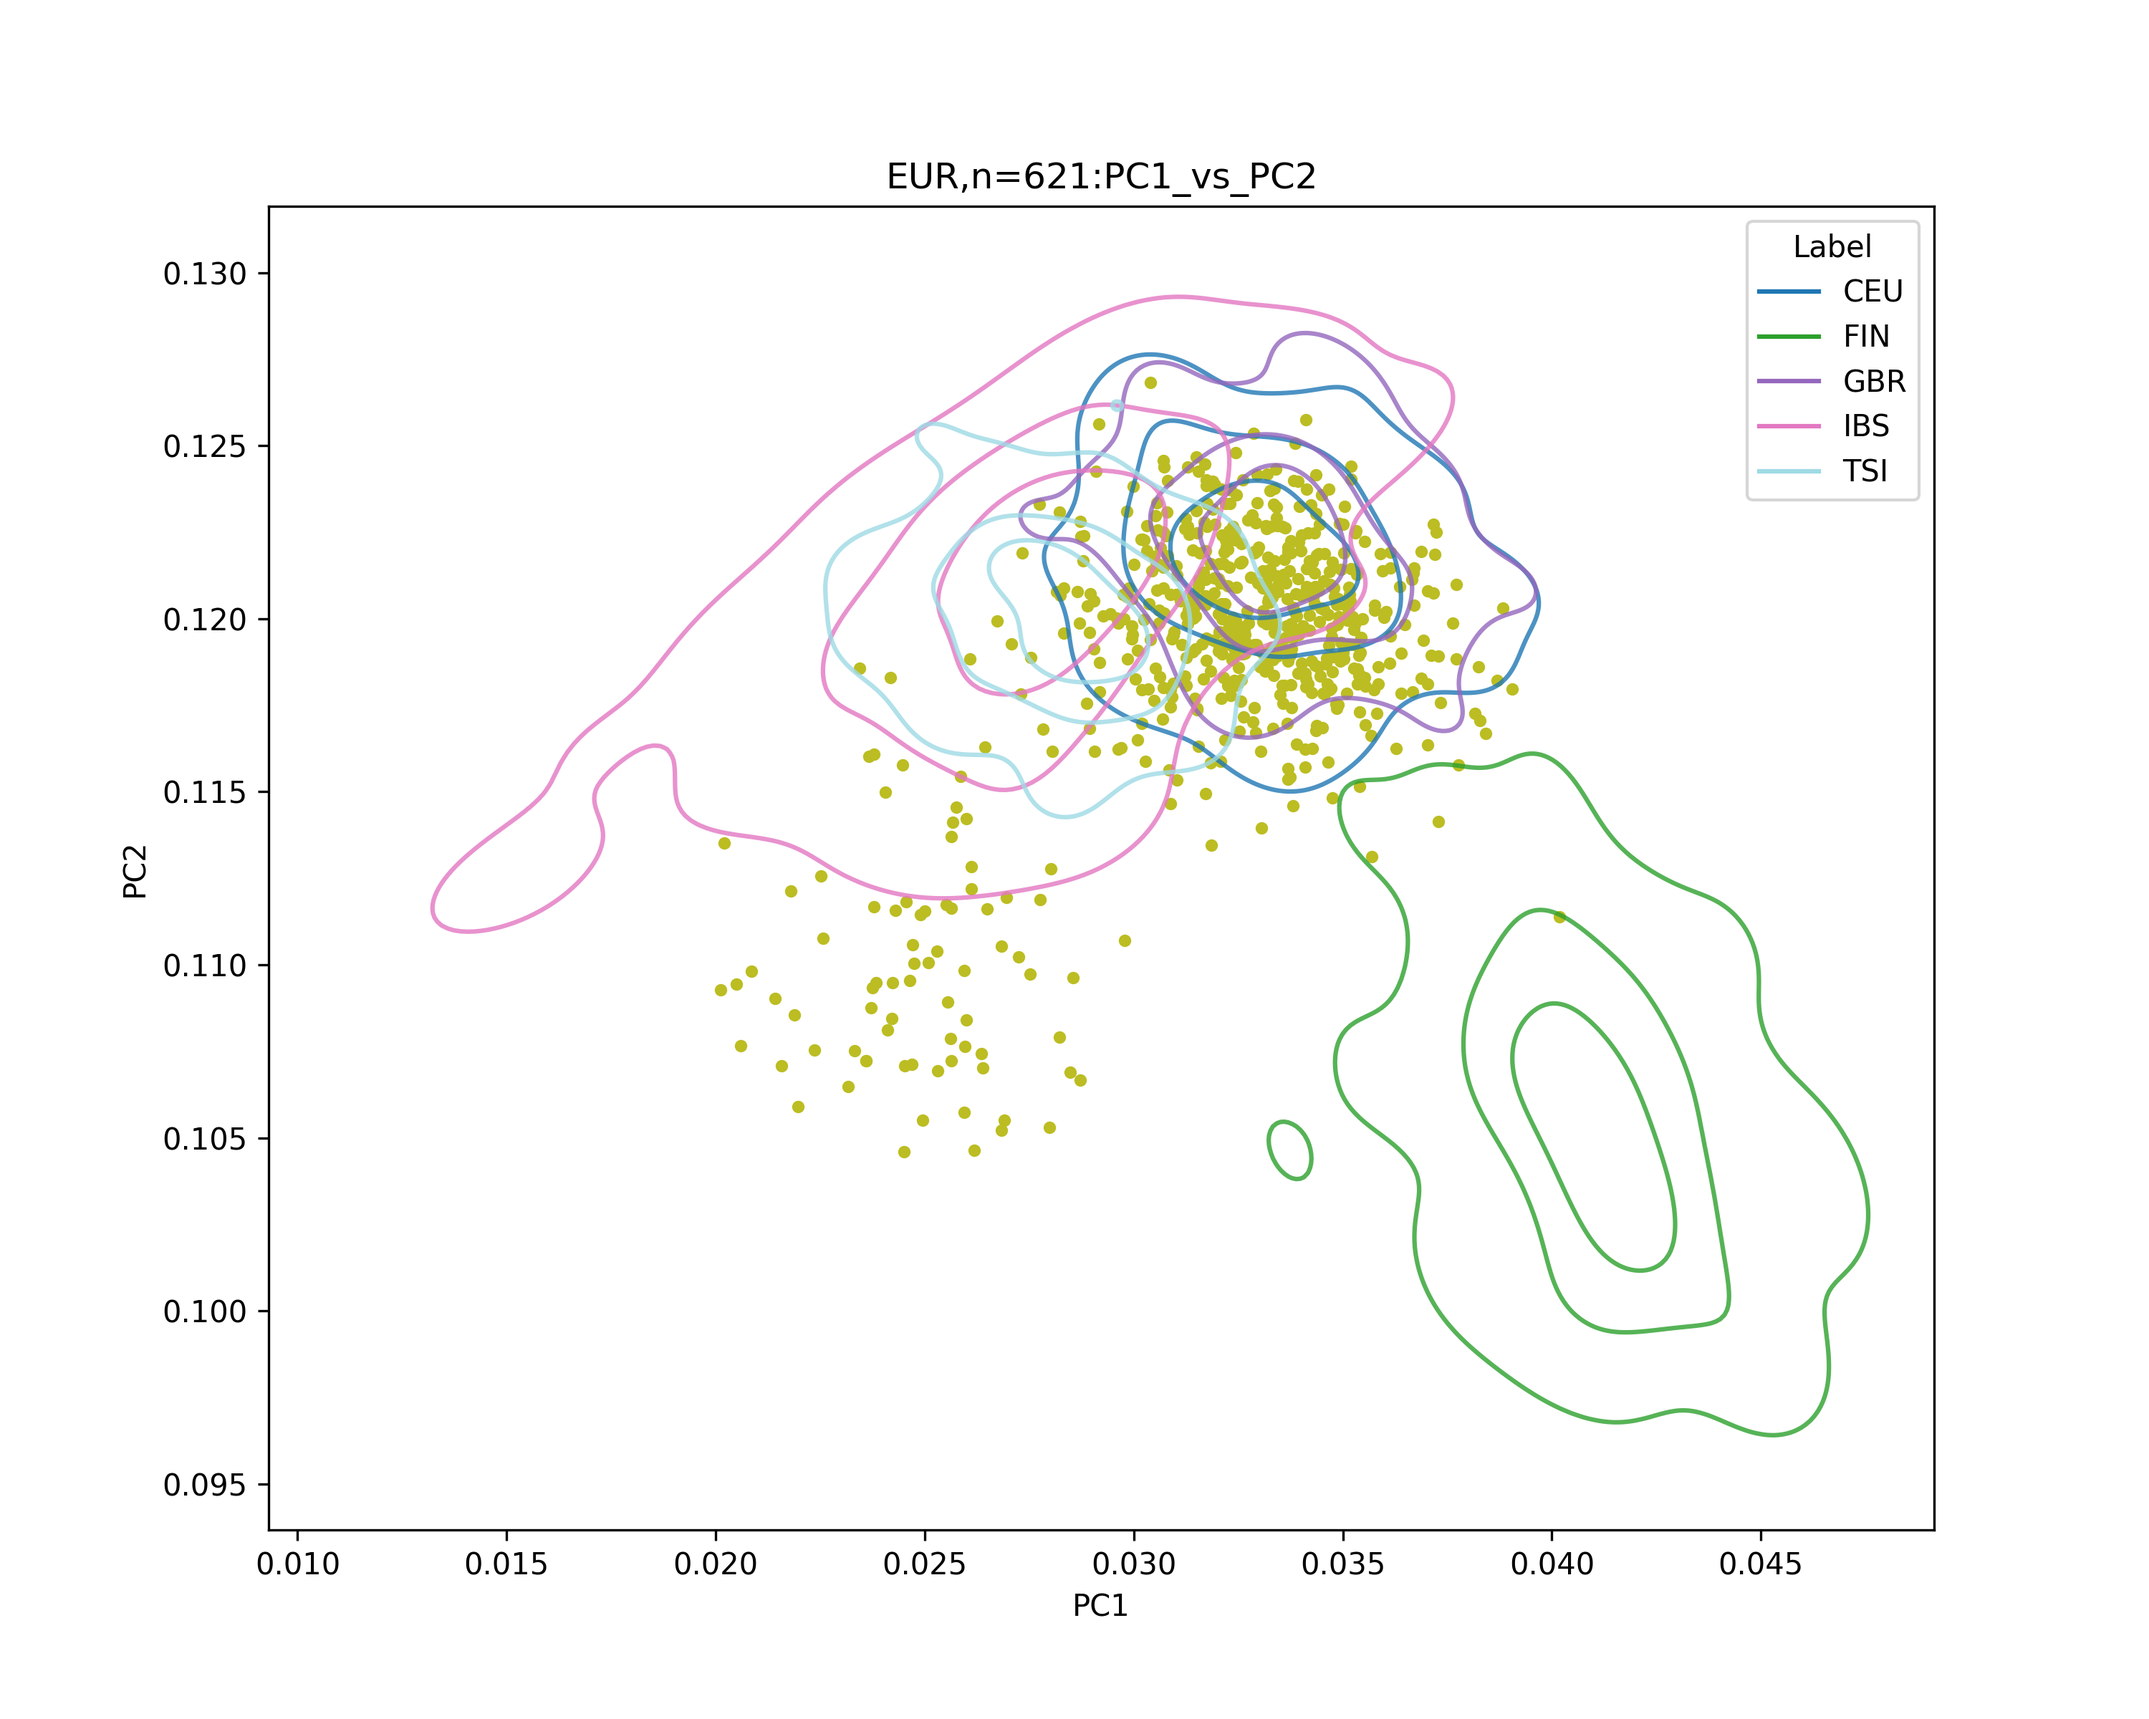
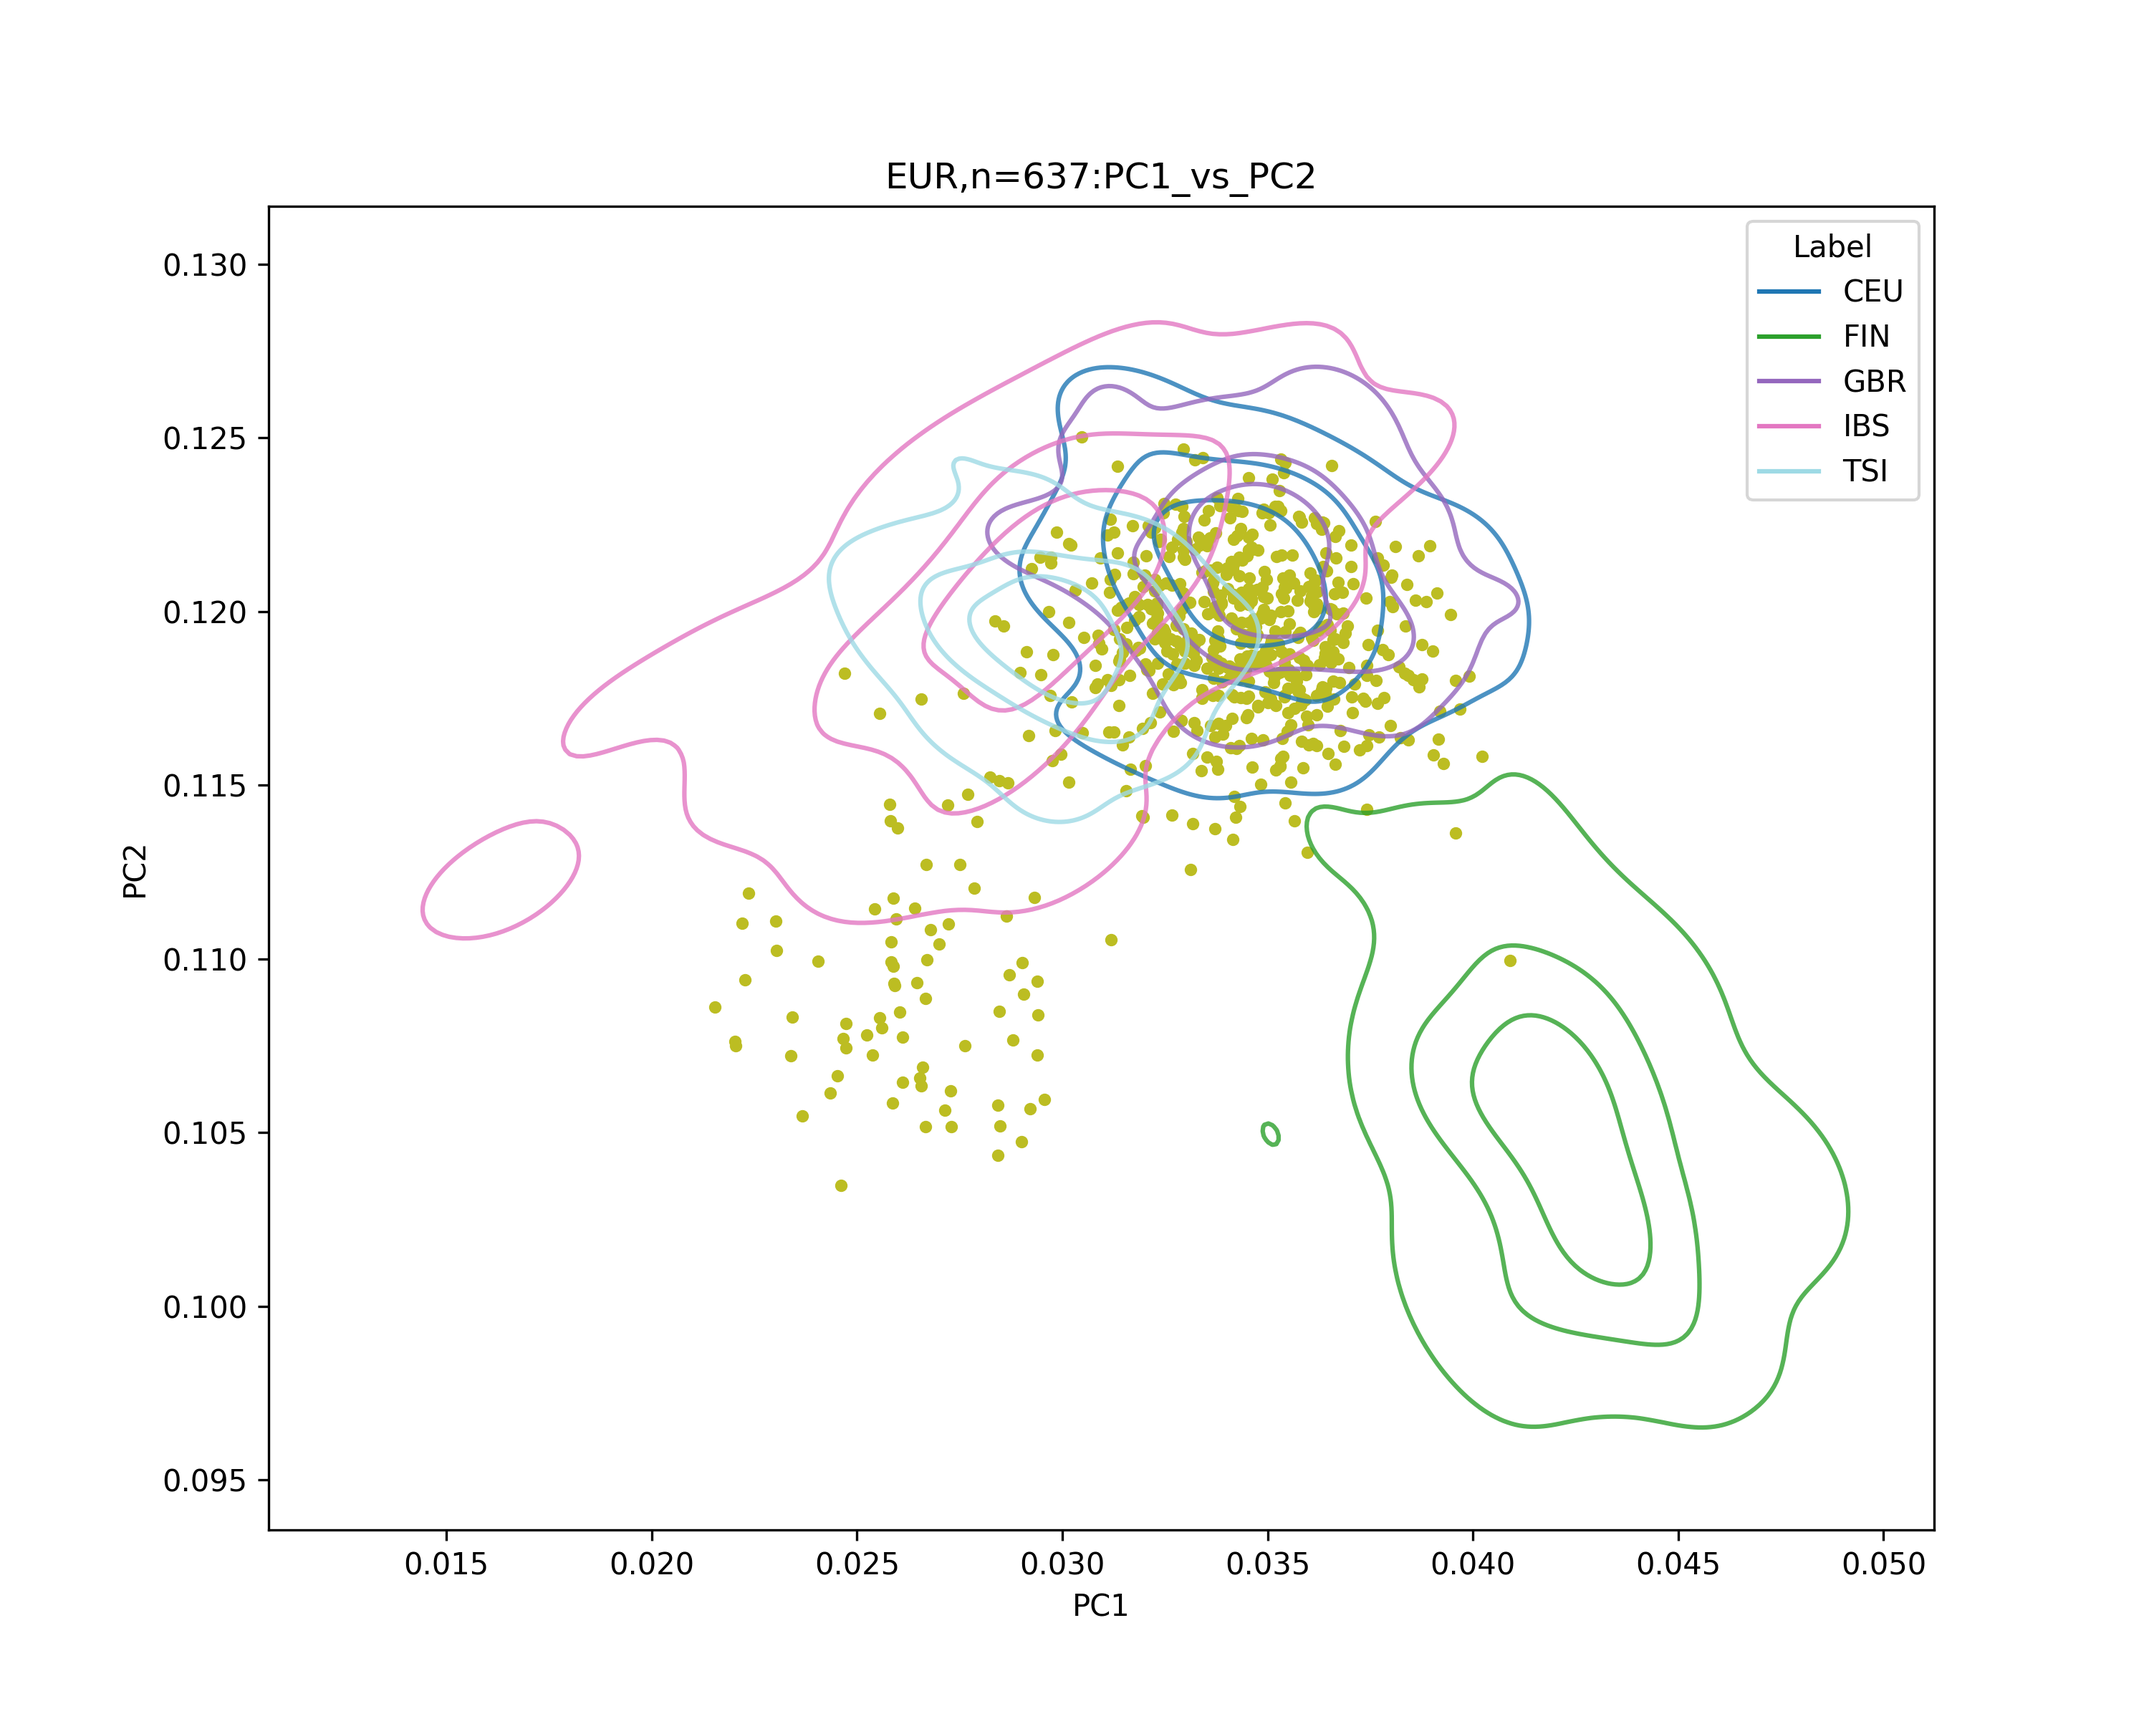
pre-impute

diff --git a/README.md b/README.md
@@ -1,5 +1,19 @@
 # ADNI1 genetic QC and population splitting
 
+ADNI1 genotying data is using the Illumina Human610-Quad BeadChip and intensity data processed with GenomeStudio v2009.1
+
+It is aligned to hg18, but the position is a bit different from hg18 FASTA file. Also it is not standardized to the forward strand. For example, this variant's Reference allele is A. Also the position is diffrent from any of the hg18/19/38 standard coordinates.
+```
+1       rs3737728       0       1011278 T       C
+```
+When aligned to rsID (not on chr:pos), still the imputation server reports around 10% strand flip and 5% strand flip & allele swap. 85% are almost 100% matched so we see this as stranad / allele mis-alignment issue on rsID.
+
+In summarize, our approach is to:
+* use rsID to retrive the standardized coordinates
+* do ordinary QCs
+* use HRC-1000 to standardize to forward strand
+
+## Preparation
 Install plink2 to ./bin folder `
 ```
 mkdir -p ./bin
@@ -19,9 +33,8 @@ module load plink/1.9
 * AJ reference plink binary from [GSE23636](https://www.ncbi.nlm.nih.gov/geo/query/acc.cgi?acc=GSE23636)
 * 1000 genome phase 3 plink binary + population labels filtered to biallelic snps on autosomes with a MAF > 0.01, geno > 0.95 and hwe > 1e-6. Also, pallindromes and long LD regions were excluded. ([Processing steps](https://github.com/hirotaka-i/1kg_ref/blob/main/main.ipynb))
 
-## EUR
-Start with removing the noisy variants from the original ADNI1 hg18 data. 
-Then, align to hg38, standardize the variants IDs to chr:pos:ref:alt
+## Retrieve standardized positions on hg19 from rsID
+Start with removing the noisy variants from the original ADNI1 hg18 data. Then, align to hg19 positions using rsID and HapMap map file.
 ```
 awk '$5 == "0" || $6 == "0" || $5 == $6 {print $2}' \
   ../resources/ADNI/ADNI1_hg19/ADNI_cluster_01_forward_757LONI.bim \
@@ -32,11 +45,46 @@ awk '$5 == "0" || $6 == "0" || $5 == $6 {print $2}' \
   --exclude temp/bad_snps.txt \
   --make-bed \
   --out temp/ADNI_start
+```
+Retrieve hg19 positions from rsID using HapMap map file
+```
+awk '$2 ~ /^rs[0-9]+$/ {print $2}' temp/ADNI_start.bim \
+  | sort -u > temp/adni_rsid.sorted
+join -t $'\t' -1 1 -2 1 \
+  temp/adni_rsid.sorted \
+  ../resources/HAPMAP_hg19_new.map.sorted.pref_exact \
+  > temp/adni_rsid_to_hg19.map
 
+awk '{print $1, $2}' temp/adni_rsid_to_hg19.map > temp/update_chr_hg19.txt
+awk '{print $1, $3}' temp/adni_rsid_to_hg19.map > temp/update_pos_hg19.txt
+cut -f1 temp/adni_rsid_to_hg19.map > temp/rsids_with_hg19pos.txt
+```
+* 587337 temp/adni_rsid.sorted 
+* 417147 temp/adni_rsid_to_hg19.map
+```
+awk '{print $1, $2}' temp/adni_rsid_to_hg19.map > temp/update_chr_hg19.txt
+awk '{print $1, $3}' temp/adni_rsid_to_hg19.map > temp/update_pos_hg19.txt
+cut -f1 temp/adni_rsid_to_hg19.map > temp/rsids_with_hg19pos.txt
+```
+
+```
+./bin/plink2 \
+  --bfile temp/ADNI_start \
+  --extract temp/rsids_with_hg19pos.txt \
+  --update-chr temp/adni_rsid_to_hg19.map \
+  --update-map temp/adni_rsid_to_hg19.map 3 1 \
+  --sort-vars \
+  --make-pgen \
+  --out temp/ADNI_hg19_rsidpos
+```
+
+# QC and population splitting pipeline
+```
 bash code/01_prepare_variants.sh \
-        --bfile temp/ADNI_start \
+        --pfile temp/ADNI_hg19_rsidpos \
         --fa ../resources/liftover_ref/hg38.fa.gz \
-        --chain data/hg18ToHg38.over.chain.gz \
+        --chain data/hg19ToHg38.over.chain.gz \
+        --chain-back data/hg38ToHg19.over.chain.gz \
         --outdir temp/prep_vars_out \
         --threads 2
 ```
@@ -65,11 +113,10 @@ python code/03b_plot_pop_and_split.py \
 ```
 ```
 InfPop
-REF      2573
-EUR       621
-AAC        30
-AMR        21
-OTHER       9
+EUR       637
+AAC        32
+AMR        25
+OTHER      11
 SAS         1
 ```
 
@@ -84,17 +131,42 @@ bash code/04_qc_split.sh \
   --keep-samples temp/pop_split_out/with_1kg_mah_EUR.list \
   --fa ../resources/liftover_ref/hg38.fa.gz \
   --snps-only yes \
-  --vcf-out yes \
+  --vcf-out no \
   --outdir temp/qc_EUR_splitted \
   --geno-thres 0.1 \
   --maf-thres 0.005 \
-  --vcf-out yes \
   --threads 2
 ```
 
-Archive the temp/qc_EUR_splitted/vcf/chr*.vcf.gz output files for download
+
+
+## Strand alignement
 ```
-cd temp/qc_EUR_splitted/vcf && tar -czvf ../preimpute_vcf.tar.gz chr*.vcf.gz 
+mkdir -p temp/strand_align
+
+# Get freq + bim files
+./bin/plink2 \
+  --pfile temp/qc_EUR_splitted/kept_snps_qc \
+  --keep-allele-order \
+  --make-bed \
+  --out temp/strand_align/kept_snps_qc
+plink --bfile temp/strand_align/kept_snps_qc \
+  --keep-allele-order \
+  --freq \
+  --out temp/strand_align/kept_snps_qc
+
+perl ../resources/strand_check/HRC-1000G-check-bim.pl \
+  -b temp/strand_align/kept_snps_qc.bim \
+  -f temp/strand_align/kept_snps_qc.frq \
+  -r ../resources/strand_check/PASS.Variantsbravo-dbsnp-all.tab.gz \
+  -h -o temp/strand_align/strand_check_run
+
+bash temp/strand_align/strand_check_run/Run-plink.sh 
+```
+# Compress VCFs and tar.gz them for upload
+```
+gzip temp/strand_align/strand_check_run/kept_snps_qc-updated-chr*.vcf
+tar -czvf temp/preimpute_vcf.tar.gz temp/strand_align/strand_check_run/kept_snps_qc-updated-chr*.vcf.gz
 ```
 
 --> Michigan Imputation server upload with reference panel: 1000 Genomes Phase 3 v5 (GRCh38/hg38) x30
